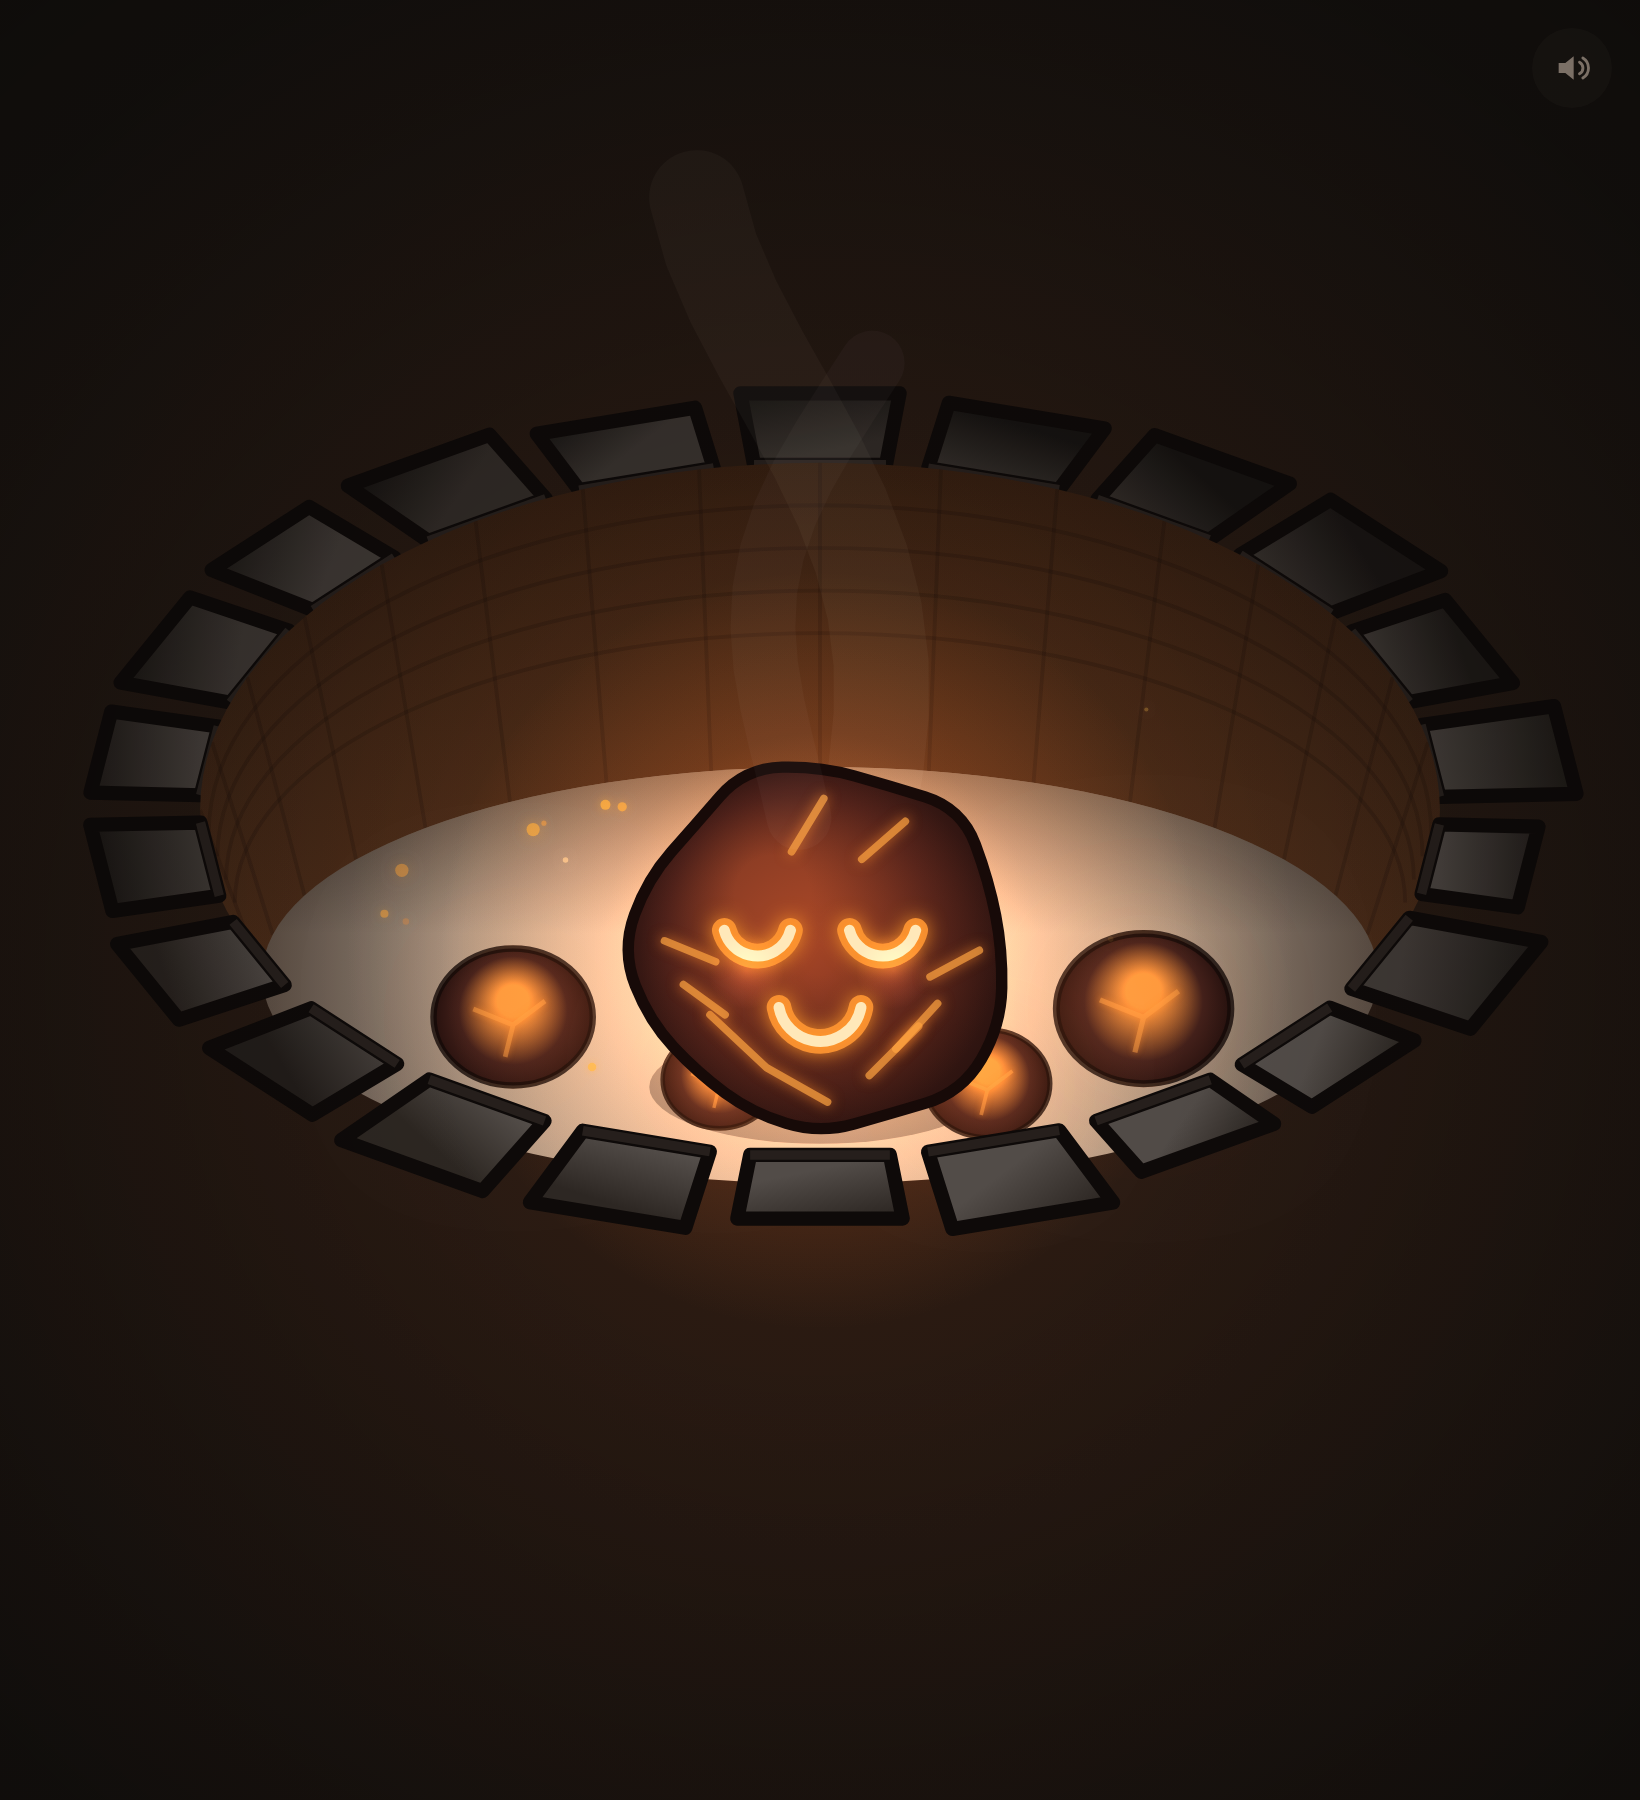
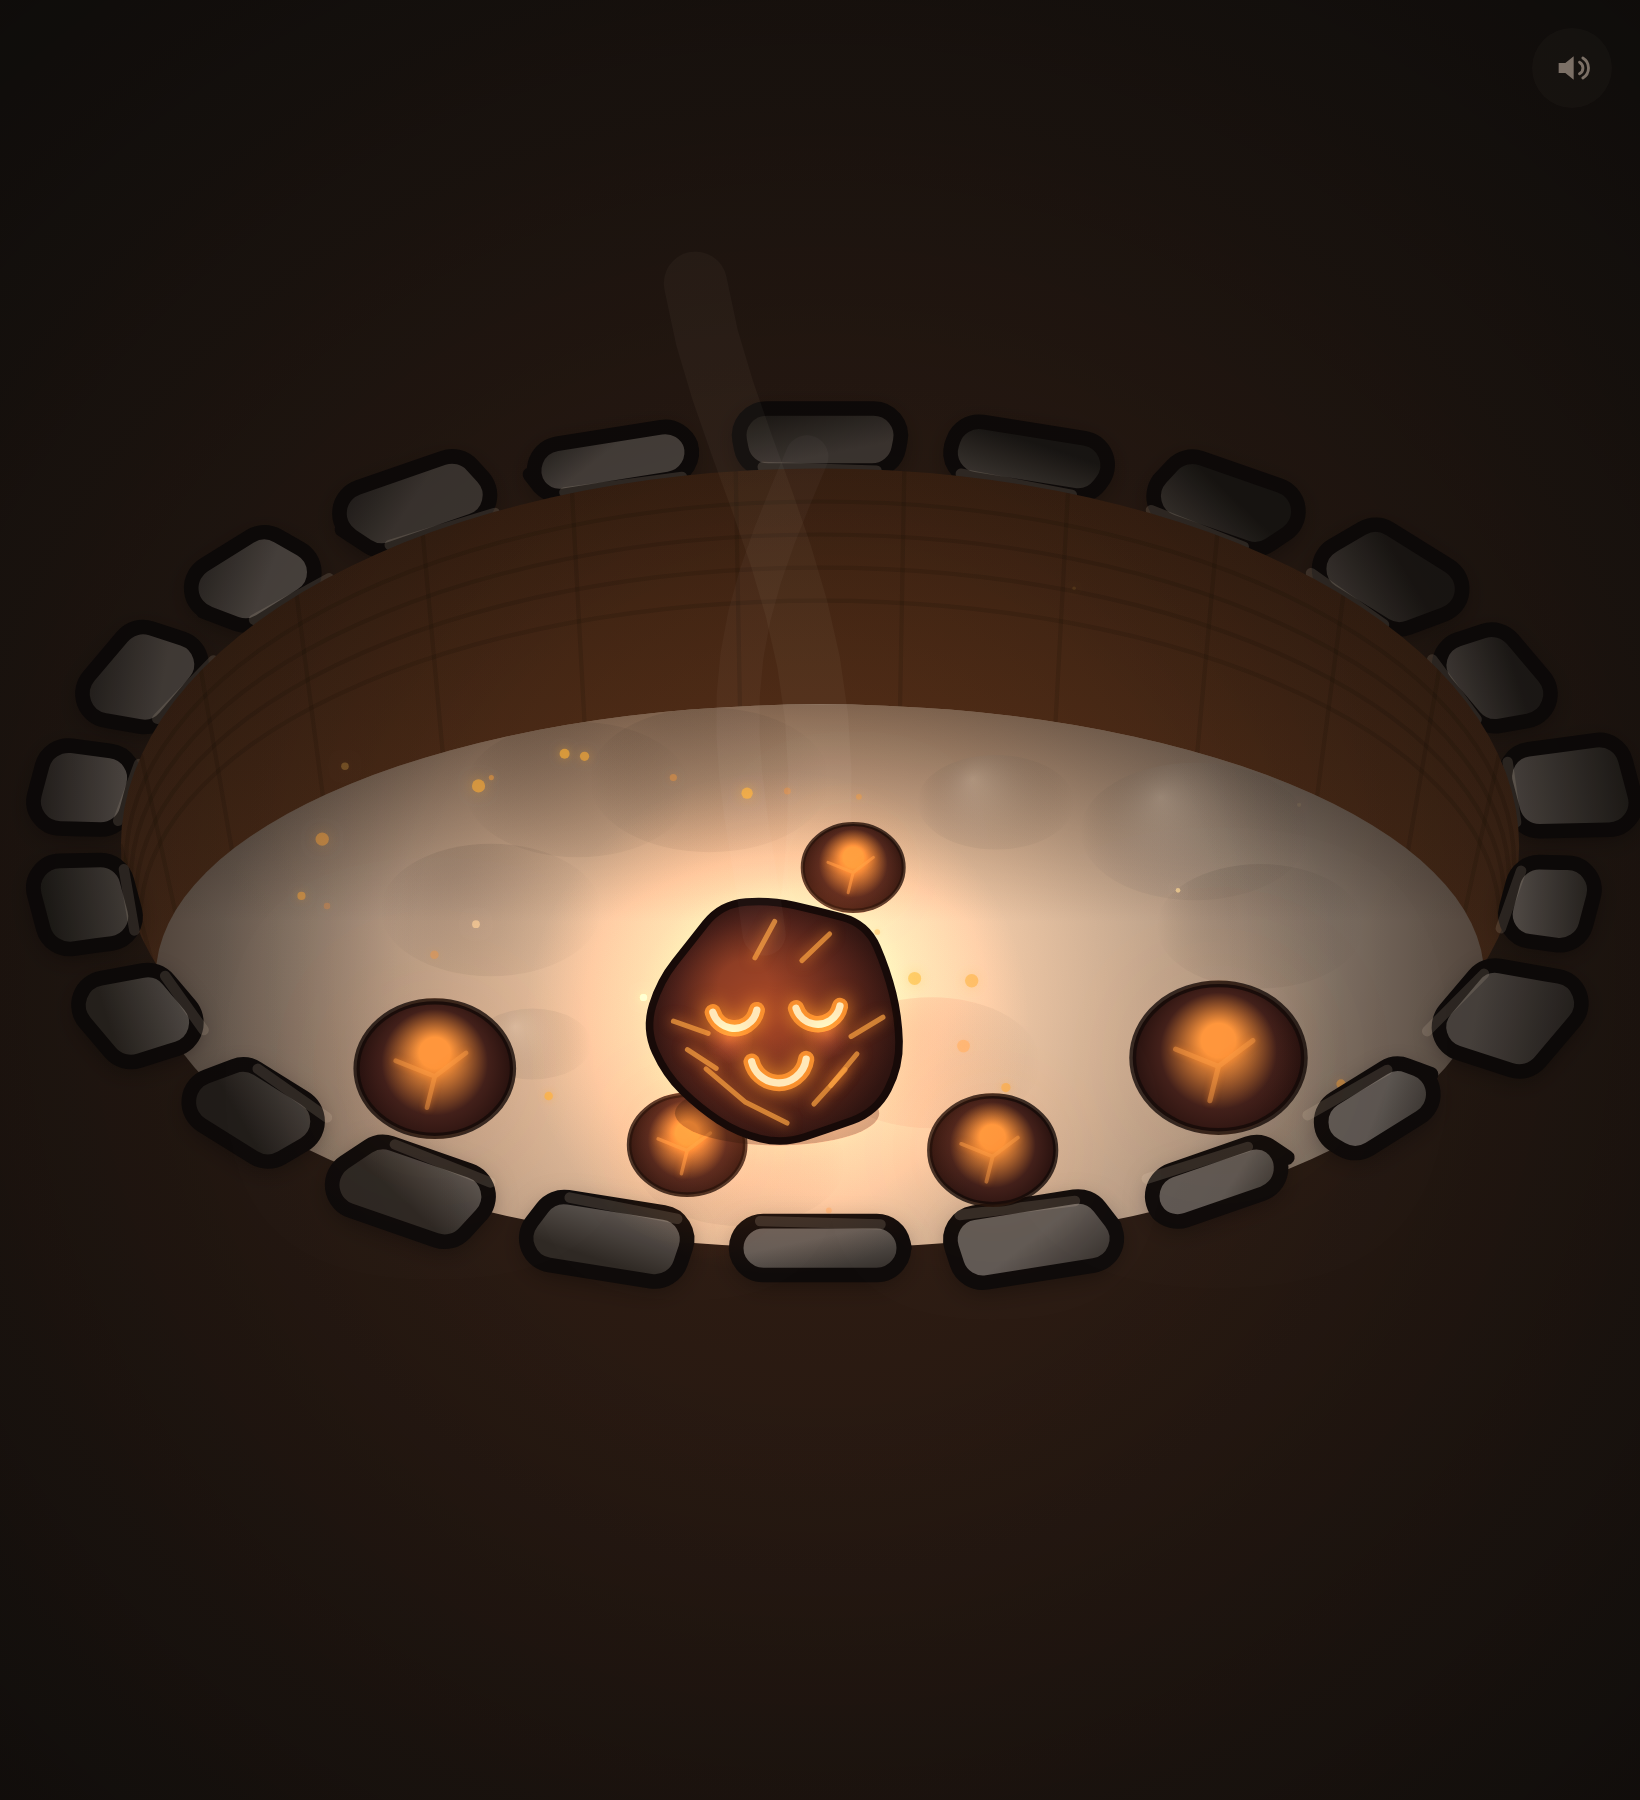
Bigger hearth, smaller coal, no clipping, livelier physics, cozier art
Addresses feedback on the fire-pit build:

- Hearth is substantially larger and the coal noticeably smaller
- Ash bed enlarged and raised so the coal can roam almost the whole pit,
  well above the middle (was previously stuck in the lower third)
- The coal (and his ember friends) now render on top of the front stones,
  so he is never clipped by the rim — fully visible everywhere
- Physics: responsive flicks with friction-based travel and bouncier wall
  rebounds, plus gentle homing that only engages once he slows, so he can
  be placed anywhere yet still rolls cozily back to the middle
- Graphics: rounded, beveled pebble-stones with soft drop shadows; warmer
  ash with gentle mounds and a firelight pool; softer brick back wall;
  bigger glowing ember friends
- Added the free, open-source Quicksand font for the floating messages

Claude-Session: https://claude.ai/code/session_01QizvzkvaMnJvXbRxh56nRD

diff --git a/game.js b/game.js
@@ -71,20 +71,19 @@
   //   - the floor / ash bed, the same shape dropped down by wallH.
   // The visible back wall is the band between their far (upper) halves.
   function computeScene() {
-    const SQUISH = 0.56;                 // vertical foreshortening
-    const RX = Math.min(W * 0.45, H * 0.60);
+    const SQUISH = 0.54;                 // vertical foreshortening
+    const RX = Math.min(W * 0.49, H * 0.72);   // a big, generous hearth
     const RY = RX * SQUISH;
     const cx = W / 2;
-    const cyRim = H * 0.45;               // rim ellipse centre
-    const stoneT = RX * 0.16;            // stone ring thickness
+    const cyRim = H * 0.47;               // rim ellipse centre
+    const stoneT = RX * 0.13;            // stone ring thickness
     const innerRX = RX - stoneT;
     const innerRY = RY - stoneT * SQUISH;
 
-    // The ash bed: a smaller, flatter ellipse set down inside the pit,
-    // so the front stones sit in front of it and a low back wall shows.
-    const floorRX = innerRX * 0.90;
-    const floorRY = innerRY * 0.60;
-    const floorCy = cyRim + RY * 0.40;
+    // A large ash bed filling most of the pit floor, with a low back wall.
+    const floorRX = innerRX * 0.95;
+    const floorRY = innerRY * 0.72;
+    const floorCy = cyRim + RY * 0.30;
 
     scene.cx = cx;
     scene.RX = RX; scene.RY = RY;
@@ -94,11 +93,12 @@
     scene.floorCy = floorCy;
     scene.floorRX = floorRX; scene.floorRY = floorRY;
 
-    const coalR = floorRX * 0.34;
+    const coalR = floorRX * 0.19;             // a smaller, cuter coal
     scene.coalR = coalR;
-    scene.restY = floorCy - floorRY * 0.12;   // nestled toward the back-centre
-    scene.bedRX = floorRX - coalR * 0.55;
-    scene.bedRY = floorRY - coalR * 0.28;
+    scene.restY = floorCy - floorRY * 0.04;   // rests near the bed's centre
+    // The coal may roam almost the whole bed (well above the middle).
+    scene.bedRX = floorRX - coalR * 0.6;
+    scene.bedRY = floorRY - coalR * 0.8;
     scene.bedCy = floorCy;
 
     layoutEmbers();
@@ -155,11 +155,11 @@
   function layoutEmbers() {
     const { cx, floorCy, floorRX, floorRY, coalR } = scene;
     const spots = [
-      { dx: -0.55, dy: 0.20, s: 0.42 },
-      { dx: 0.58, dy: 0.16, s: 0.46 },
-      { dx: -0.18, dy: 0.5, s: 0.30 },
-      { dx: 0.30, dy: 0.52, s: 0.33 },
-      { dx: 0.06, dy: -0.32, s: 0.26 },
+      { dx: -0.58, dy: 0.34, s: 0.62 },
+      { dx: 0.60, dy: 0.30, s: 0.68 },
+      { dx: -0.20, dy: 0.62, s: 0.46 },
+      { dx: 0.26, dy: 0.64, s: 0.50 },
+      { dx: 0.05, dy: -0.40, s: 0.40 },
     ];
     embers.length = 0;
     for (const sp of spots) {
@@ -382,7 +382,7 @@
     pointer.x = p.x; pointer.y = p.y;
     pointer.samples = [{ x: p.x, y: p.y, t: performance.now() }];
     registerInput();
-    if (Math.hypot(p.x - coal.x, p.y - coal.y) <= coal.r * 1.5) {
+    if (Math.hypot(p.x - coal.x, p.y - coal.y) <= Math.max(coal.r * 1.8, 48)) {
       coal.held = true; coal.grounded = false; coal.vx = coal.vy = 0;
       pointer.grabX = coal.x - p.x; pointer.grabY = coal.y - p.y;
       canvas.classList.add("grabbing");
@@ -467,9 +467,9 @@
   //  Physics — a shallow bowl seen from above: friction, gentle
   //  centering, and bouncing off the elliptical pit wall.
   // ---------------------------------------------------------------
-  const FRICTION = 0.16;   // velocity kept per second
-  const CENTER = 2.2;      // gentle pull back to the cozy middle
-  const REST = 0.6;        // wall restitution
+  const FRICTION = 0.36;   // velocity kept per second (livelier, bouncier play)
+  const HOMING = 2.6;      // gentle roll back toward the cozy middle (when slow)
+  const REST = 0.62;       // wall restitution
   let settledWasMoving = false;
 
   function physics(dt) {
@@ -493,9 +493,12 @@
       return;
     }
 
-    // Bowl centering toward the resting spot + friction.
-    coal.vx += (cx - coal.x) * CENTER * dt;
-    coal.vy += (restY - coal.y) * CENTER * dt;
+    // Gentle homing — barely there at speed (flicks stay responsive),
+    // but once he's slowed he rolls cozily back toward the middle.
+    const sp0 = Math.hypot(coal.vx, coal.vy);
+    const homeScale = clamp(1 - sp0 / 320, 0, 1);
+    coal.vx += (cx - coal.x) * HOMING * homeScale * dt;
+    coal.vy += (restY - coal.y) * HOMING * homeScale * dt;
     const fr = Math.pow(FRICTION, dt);
     coal.vx *= fr; coal.vy *= fr;
 
@@ -694,13 +697,15 @@
     drawRim(false);          // far (back) stones
     drawPitInterior(warm);
     drawAshFloor(warm, pulse);
-    drawCoalShadow();
+    drawSmoke(true);         // smoke wisp behind the coal
+    drawRim(true);           // near (front) stones
+    // The pet and his friends live in the ash and are always fully
+    // visible — never clipped by the front stones.
     drawEmbers(pulse, warm);
-    drawAmbient();
-    drawSmoke(true);         // smoke behind the coal
+    drawCoalShadow();
     drawCoal(pulse, warm);
     drawParticles();
-    drawRim(true);           // near (front) stones, on top of the bed
+    drawAmbient();           // floating sparks drift over everything
     drawSmoke(false);        // a wisp drifting up in front
 
     // soft vignette
@@ -728,32 +733,56 @@
       const ox1 = cx + Math.cos(b1) * RX * ov, oy1 = cyRim + Math.sin(b1) * RY * ov;
       const ox0 = cx + Math.cos(b0) * RX * ov, oy0 = cyRim + Math.sin(b0) * RY * ov;
 
-      ctx.beginPath();
-      ctx.moveTo(ix0, iy0); ctx.lineTo(ix1, iy1);
-      ctx.lineTo(ox1, oy1); ctx.lineTo(ox0, oy0);
-      ctx.closePath();
+      const pts = [[ix0, iy0], [ix1, iy1], [ox1, oy1], [ox0, oy0]];
+      const round = scene.stoneT * 0.26;
 
-      // shade: stones catch a little more light on the near/lower side
+      // soft drop shadow so the stones feel chunky and sit on the rim
+      ctx.save();
+      ctx.shadowColor = "rgba(0,0,0,0.45)";
+      ctx.shadowBlur = scene.stoneT * 0.5;
+      ctx.shadowOffsetY = scene.stoneT * 0.12;
+      roundPoly(pts, round);
+      ctx.fillStyle = COL.stoneDark;
+      ctx.fill();
+      ctx.restore();
+
+      // body, lit a touch more on the near (lower) side
       const lightFace = clamp(0.5 + Math.sin(amid) * 0.5, 0, 1);
-      const base = lerp(38, 70, lightFace) * v.sh;
+      const base = lerp(46, 78, lightFace) * v.sh;
+      roundPoly(pts, round);
       const g = ctx.createLinearGradient(ix0, iy0, ox0, oy0);
-      g.addColorStop(0, `rgb(${(base + 14) | 0},${(base + 8) | 0},${(base + 4) | 0})`);
-      g.addColorStop(1, `rgb(${base * 0.6 | 0},${base * 0.52 | 0},${base * 0.46 | 0})`);
+      g.addColorStop(0, `rgb(${(base + 20) | 0},${(base + 13) | 0},${(base + 8) | 0})`);
+      g.addColorStop(1, `rgb(${base * 0.55 | 0},${base * 0.48 | 0},${base * 0.42 | 0})`);
       ctx.fillStyle = g;
       ctx.fill();
 
       ctx.lineJoin = "round";
-      ctx.lineWidth = Math.max(2.2, scene.stoneT * 0.12);
+      ctx.lineWidth = Math.max(2.4, scene.stoneT * 0.14);
       ctx.strokeStyle = COL.stoneEdge;
       ctx.stroke();
 
-      // inner-edge bevel highlight
+      // glossy bevel highlight along the inner (lit) edge
       ctx.beginPath();
-      ctx.moveTo(ix0, iy0); ctx.lineTo(ix1, iy1);
-      ctx.strokeStyle = "rgba(255,230,200,0.10)";
-      ctx.lineWidth = Math.max(1.5, scene.stoneT * 0.08);
+      ctx.moveTo(lerp(ix0, ox0, 0.06) + (ix1 - ix0) * 0.12, lerp(iy0, oy0, 0.06) + (iy1 - iy0) * 0.12);
+      ctx.lineTo(ix1 - (ix1 - ix0) * 0.12, iy1 - (iy1 - iy0) * 0.12);
+      ctx.strokeStyle = "rgba(255,232,205,0.14)";
+      ctx.lineWidth = Math.max(1.6, scene.stoneT * 0.1);
+      ctx.lineCap = "round";
       ctx.stroke();
     }
+  }
+
+  // Draw a rounded quadrilateral (cozy pebble-stone corners).
+  function roundPoly(pts, r) {
+    const n = pts.length;
+    const last = pts[n - 1], first = pts[0];
+    ctx.beginPath();
+    ctx.moveTo((last[0] + first[0]) / 2, (last[1] + first[1]) / 2);
+    for (let i = 0; i < n; i++) {
+      const corner = pts[i], next = pts[(i + 1) % n];
+      ctx.arcTo(corner[0], corner[1], (corner[0] + next[0]) / 2, (corner[1] + next[1]) / 2, r);
+    }
+    ctx.closePath();
   }
 
   // Fill the whole inside of the pit (the curved brick wall). The ash
@@ -779,7 +808,7 @@
     ctx.fillRect(cx - innerRX - 6, top - 6, innerRX * 2 + 12, innerRY * 2 + 12);
 
     // curved brick courses (concentric arcs that flatten toward the bed)
-    ctx.strokeStyle = "rgba(14,8,4,0.16)";
+    ctx.strokeStyle = "rgba(12,7,3,0.12)";
     ctx.lineWidth = Math.max(1.2, innerRX * 0.006);
     for (let c = 1; c <= 4; c++) {
       const k = c / 5;
@@ -789,8 +818,8 @@
       ctx.beginPath(); ellipse(cx, ey, erx, ery, Math.PI, TAU, false); ctx.stroke();
     }
     // vertical seams fanning down the back wall
-    for (let i = 0; i < 16; i++) {
-      const a = Math.PI + (i / 16) * Math.PI;
+    for (let i = 0; i < 13; i++) {
+      const a = Math.PI + (i / 13) * Math.PI;
       const x0 = cx + Math.cos(a) * innerRX, y0 = cyRim + Math.sin(a) * innerRY;
       const x1 = cx + Math.cos(a) * floorRX, y1 = floorCy + Math.sin(a) * floorRY;
       ctx.beginPath(); ctx.moveTo(x0, y0); ctx.lineTo(x1, y1); ctx.stroke();
@@ -827,9 +856,27 @@
     ctx.fillRect(cx - floorRX, floorCy - floorRY, floorRX * 2, floorRY * 2);
     ctx.restore();
 
+    // soft ash mounds for a little gentle texture
+    let rng = mulberry32(31);
+    ctx.save();
+    ctx.beginPath(); ellipse(cx, floorCy, floorRX, floorRY); ctx.clip();
+    for (let i = 0; i < 9; i++) {
+      const a = rng() * TAU, t = Math.sqrt(rng());
+      const x = cx + Math.cos(a) * floorRX * t * 0.85;
+      const y = floorCy + Math.sin(a) * floorRY * t * 0.85;
+      const rr = floorRX * (0.08 + rng() * 0.12);
+      const m = ctx.createRadialGradient(x - rr * 0.3, y - rr * 0.3, 0, x, y, rr);
+      const light = rng() > 0.5;
+      m.addColorStop(0, light ? "rgba(220,208,193,0.22)" : "rgba(70,58,50,0.18)");
+      m.addColorStop(1, "rgba(0,0,0,0)");
+      ctx.fillStyle = m;
+      ctx.beginPath(); ctx.ellipse(x, y, rr, rr * 0.6, 0, 0, TAU); ctx.fill();
+    }
+    ctx.restore();
+
     // scattered glowing embers buried in the ash
-    const rng = mulberry32(7);
-    for (let i = 0; i < 22; i++) {
+    rng = mulberry32(7);
+    for (let i = 0; i < 24; i++) {
       const a = rng() * TAU, t = Math.sqrt(rng());
       const x = cx + Math.cos(a) * floorRX * t * 0.92;
       const y = floorCy + Math.sin(a) * floorRY * t * 0.92;
@@ -1068,7 +1115,7 @@
       const ph = ((t + i * 0.5) % 1.5) / 1.5;
       const a = Math.sin(ph * Math.PI);
       ctx.globalAlpha = amount * 0.75 * a;
-      ctx.font = `700 ${Math.round(coal.r * (0.2 + i * 0.13))}px "Inter", system-ui, sans-serif`;
+      ctx.font = `700 ${Math.round(coal.r * (0.32 + i * 0.2))}px "Quicksand", system-ui, sans-serif`;
       ctx.fillText("z", x + i * coal.r * 0.24 + ph * coal.r * 0.12, y - ph * coal.r * 1.1 - i * coal.r * 0.18);
     }
     ctx.restore();

diff --git a/styles.css b/styles.css
@@ -19,8 +19,8 @@ html, body {
   user-select: none;
   -webkit-tap-highlight-color: transparent;
   touch-action: none;
-  font-family: "Inter", "SF Pro Display", -apple-system, BlinkMacSystemFont,
-    "Segoe UI", Roboto, Helvetica, Arial, sans-serif;
+  font-family: "Quicksand", "Inter", "SF Pro Display", -apple-system,
+    BlinkMacSystemFont, "Segoe UI", Roboto, Helvetica, Arial, sans-serif;
 }
 
 #scene {
@@ -43,8 +43,8 @@ html, body {
   max-width: min(86vw, 30rem);
   text-align: center;
   font-size: clamp(1rem, 2.6vw, 1.4rem);
-  font-weight: 400;
-  letter-spacing: 0.015em;
+  font-weight: 500;
+  letter-spacing: 0.02em;
   line-height: 1.4;
   color: var(--text-warm);
   text-shadow: 0 0 18px rgba(255, 138, 64, 0.35);

diff --git a/index.html b/index.html
@@ -5,6 +5,10 @@
   <meta name="viewport" content="width=device-width, initial-scale=1.0, maximum-scale=1.0, user-scalable=no, viewport-fit=cover" />
   <meta name="theme-color" content="#100b09" />
   <title>Ember — your little coal</title>
+  <!-- Cozy, free, open-source rounded font for the floating messages -->
+  <link rel="preconnect" href="https://fonts.googleapis.com" />
+  <link rel="preconnect" href="https://fonts.gstatic.com" crossorigin />
+  <link href="https://fonts.googleapis.com/css2?family=Quicksand:wght@400;500;600&display=swap" rel="stylesheet" />
   <link rel="stylesheet" href="styles.css" />
 </head>
 <body>

diff --git a/README.md b/README.md
@@ -50,7 +50,9 @@ ambience, not a punishment — he's always fine.
 
 Plain HTML5 Canvas + a little CSS. Everything — the hearth, the coal, his
 face, the physics, the particles, the sound — is drawn and simulated
-procedurally in `game.js`. No frameworks, no assets, no bundler.
+procedurally in `game.js`. No frameworks, no image assets, no bundler. The
+only external asset is the free, open-source **[Quicksand](https://fonts.google.com/specimen/Quicksand)**
+font (SIL Open Font License) for the cozy floating messages.
 
 | File | What it is |
 |------|------------|